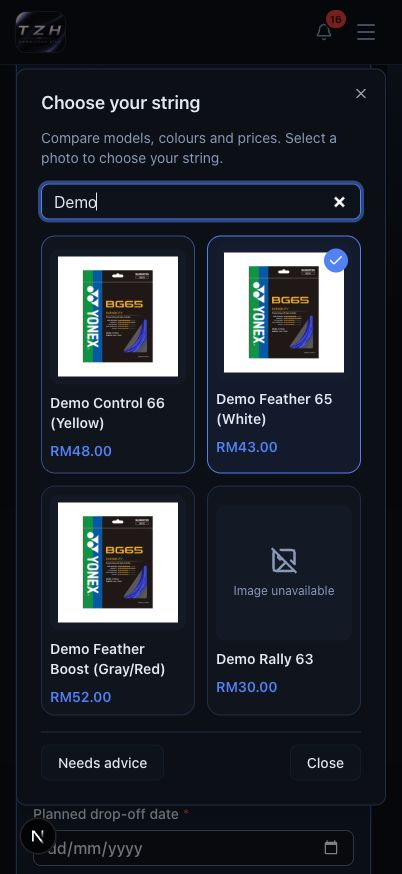
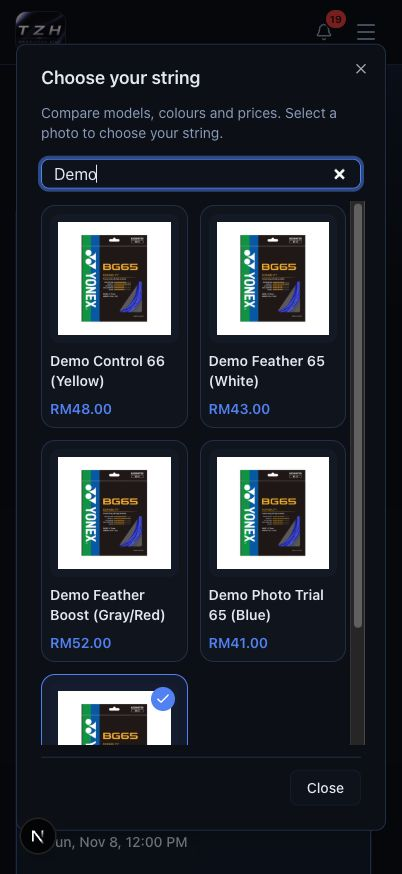
Update string selection and grommet set pricing guides

diff --git a/website/customer-stringing.md b/website/customer-stringing.md
@@ -23,17 +23,14 @@ sign-out actions.
 <summary><strong>1 · Request stringing</strong></summary>
 
 **Services → Stringing → sign in → Request stringing.** Complete your account phone number
-if asked. Enter the **Racket model** for this visit. Choose a **String model & colour**
-from the dropdown, or open **Browse string photos**, search by model or colour
-and tap a photo. Every choice includes its catalogue price. The price also
-appears below the field and in **Confirm your request**. Choose **Needs advice**
-if you want help deciding. **Tension** is optional; leave it blank for advice.
+if asked. Enter the **Racket model** for this visit. Under **String model & colour**, tap **Choose a string**, search by model or colour and tap a photo. Use **Change** on the selected card to pick another string. Every choice includes its catalogue price. The price also
+appears on the selected card and in **Confirm your request**. Select **Tension (lbs)** from **18–34**, or choose **Needs advice** for staff to advise on tension.
 
-The catalogue dropdown, photos and prices are **awaiting deployment**. Use this request form for
+The photo picker and prices are **awaiting deployment**. Use this request form for
 stringing services; Shop is for merchandise purchases.
 
 Put grip identifiers or other details in **Special instructions**, then choose
-your grommet preference and planned times. All times are Malaysia time. Staff
+your grommet preference and planned times. Standard grommets cost **RM1 per four** and high-quality grommets cost **RM1 per two**. Staff check your racket to determine how many are needed. You can also ask staff to check the racket or request no replacement. All times are Malaysia time. Staff
 confirms the final fee, any grommet charges and pickup after inspecting your racket.
 
 Choose **Request stringing** to plan a new visit or **My requests** to track progress.
@@ -43,8 +40,9 @@ Use **Refresh** beside the page title to reload saved details.
 
 ![Photo selection on mobile](../images/stringing/customer-photo-gallery-mobile.png)
 
-**Needs advice** clears the selection. If a photo is unavailable, the name and price
-remain selectable.
+If a photo is unavailable, the name and price remain selectable.
+
+![Required specifications and grommet price](../images/stringing/customer-required-specification.png)
 
 **Submit request → Confirm request.** While **Saving…** is shown, wait for
 **Request accepted**. An orange retry warning appears only if the outcome is uncertain.
@@ -71,7 +69,7 @@ linked invoice. Use Previous/Next for older services.
 Contact the centre for other changes. Each visit is a separate job, even when the racket model is the same.
 There is no racket profile to create or reuse.
 
-String model and tension have separate labels (**awaiting deployment**). A chosen string stays visible when you leave tension as **Needs advice**.
+String model and tension have separate labels (**awaiting deployment**). A chosen string stays visible when you choose **Needs advice**.
 
 ![Tracking the selected string and undecided tension](../images/stringing/customer-tracking-tension.png)
 
@@ -91,7 +89,4 @@ The request form has outlined fields in light and dark themes.
 
 ![Photo choices in light theme](../images/stringing/customer-photo-gallery-mobile-light.png)
 
-Fields marked **\*** are required: racket model, planned drop-off date/time and
-preferred pickup date/time. Choose **Needs advice** for the string and leave
-tension blank when you need advice. If a string is withdrawn before submission,
-go back, use **Refresh** and choose another listed string or **Needs advice**.
+Fields marked **\*** are required. If a string is withdrawn before submission, use **Refresh** and choose another listed string.

diff --git a/website/stringing.md b/website/stringing.md
@@ -10,7 +10,7 @@ For a complete example, follow [one customer visit from request through collecti
 <details>
 <summary><strong>Customer requests and same-day pickup</strong></summary>
 
-**Incoming rackets (awaiting deployment).** Open **Requests**, find the customer and racket, then choose **Receive racket**. Check the actual received date, string fee and grommet fee. A matching catalogue string supplies a suggested price. Confirm with **Receive racket**. The job leaves Requests and appears under Received in Customers. Payment is still outstanding.
+**Incoming rackets (awaiting deployment).** Open **Requests**, find the customer and racket, then choose **Receive racket**. Check the actual received date, string fee and grommet fee. A matching catalogue string supplies a suggested price. Check the racket to determine the quantity. Under **Sets used**, enter the number of sets to calculate the grommet fee: **RM1 per four standard grommets** or **RM1 per two high-quality grommets**. You can also enter the actual fee directly. Confirm with **Receive racket**. The job leaves Requests and appears under Received in Customers. Payment is still outstanding.
 
 ![Confirm the fees and received date](../images/stringing/admin-receive-racket.png)
 

diff --git a/website/stringing-complete-visit.md b/website/stringing-complete-visit.md
@@ -10,7 +10,7 @@ Follow one fictional visit from request to collection, feedback and the next res
 <summary><strong>1 · Customer submits a request</strong></summary>
 
 Open **Request stringing**. Enter the racket model and future drop-off/pickup times.
-Leave **String model** and **Tension** blank if you need advice; add any preferences
+Choose a listed string and select **18–34 lbs** or **Needs advice** for tension (awaiting deployment). Add other preferences
 in **Special instructions**. Fields marked **\*** are required.
 
 Choose **Submit request → Confirm request**. Wait for **Request accepted**.

diff --git a/changelog/2026-11-02.md b/changelog/2026-11-02.md
@@ -15,3 +15,5 @@
 - [Choose suggested stringing times and track string and tension separately](../website/customer-stringing.md). Awaiting deployment.
 
 - [Receive rackets directly from Requests and upload catalogue photos](../website/stringing.md). Awaiting deployment.
+
+- [Choose a string by photo, select tension and see grommet prices per set](../website/customer-stringing.md). Awaiting deployment.
